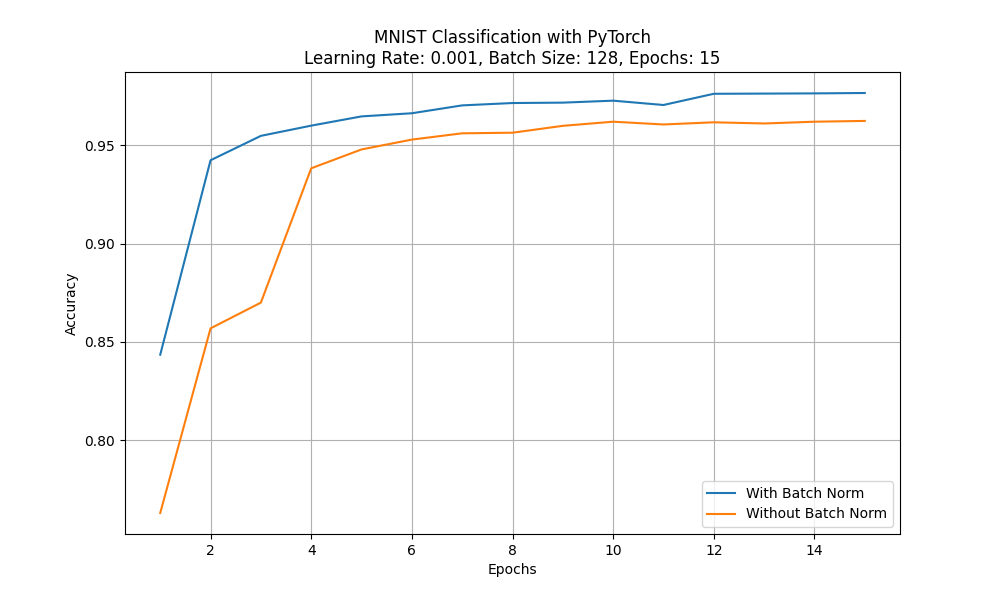
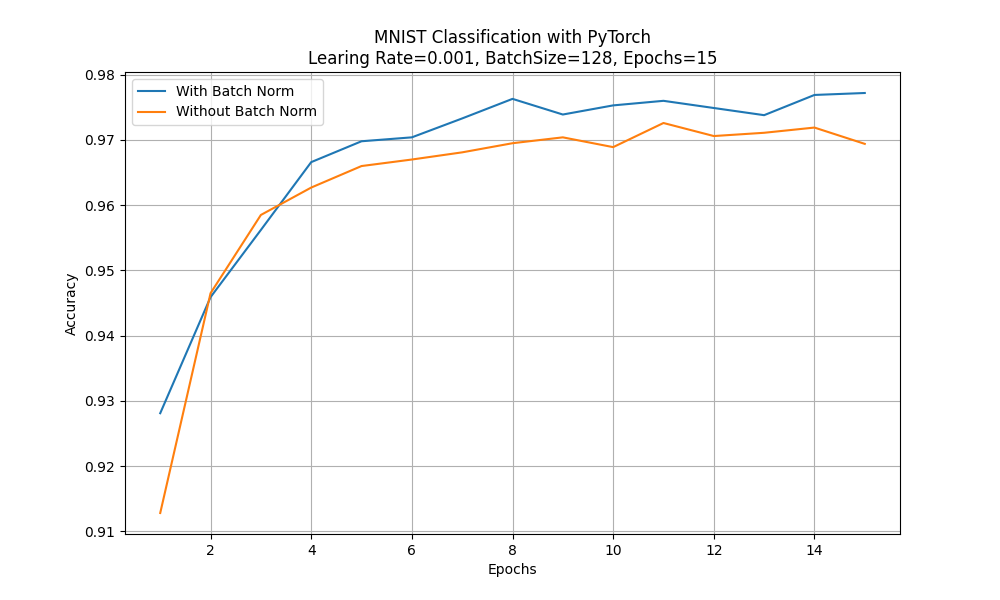
add Batch Normalization code

diff --git a/Fundamentals/BatchNormalization/main.py b/Fundamentals/BatchNormalization/main.py
@@ -1,7 +1,6 @@
 import torch
 import torch.nn as nn
 import torch.optim as optim
-import pandas as pd
 import numpy as np
 import os
 import matplotlib.pyplot as plt
@@ -10,43 +9,38 @@ from torchvision import datasets, transforms
 from NN import NeuralNetwork
 from utils import set_seed, train_model
 
-# 시드 설정
-set_seed(seed=777)
-
-# GPU 설정
-device = torch.device("cuda" if torch.cuda.is_available() else "cpu")
-print(f"Using device: {device}")
-
-# 전체 학습 과정을 함수로 묶기
 def train_and_compare_models(learning_rate=0.001, epochs=10, batch_size=64):
-    # 데이터 로드
-    result_dir = "results/"
-    os.makedirs(result_dir, exist_ok=True)  # 결과 디렉토리 생성
+    # 시드 설정
+    set_seed(777)
 
-    # MNIST 데이터셋 로드
+    # GPU 설정
+    device = torch.device("cuda" if torch.cuda.is_available() else "cpu")
+    print(f"Using device: {device}")
+
+    result_dir = "results"
+    os.makedirs(result_dir, exist_ok=True)
+
+    # MNIST 데이터셋
     transform = transforms.Compose([
         transforms.ToTensor(),
         transforms.Normalize((0.1307,), (0.3081,))
     ])
-    
     train_dataset = datasets.MNIST('data', train=True, download=True, transform=transform)
     test_dataset = datasets.MNIST('data', train=False, download=True, transform=transform)
 
-    # DataLoader 생성
     train_loader = torch.utils.data.DataLoader(train_dataset, batch_size=batch_size, shuffle=True)
     test_loader = torch.utils.data.DataLoader(test_dataset, batch_size=batch_size, shuffle=False)
 
-    # 모델 설정
     input_size = 28 * 28
     hidden_size = 100
     output_size = 10
 
-    # 모델: Batch Normalization 적용
+    # (1) BN 적용 모델
     model_bn = NeuralNetwork(input_size, hidden_size, output_size, use_batch_norm=True)
     criterion_bn = nn.CrossEntropyLoss()
     optimizer_bn = optim.Adam(model_bn.parameters(), lr=learning_rate)
 
-    # 모델: Batch Normalization 미적용
+    # (2) BN 미적용 모델
     model_no_bn = NeuralNetwork(input_size, hidden_size, output_size, use_batch_norm=False)
     criterion_no_bn = nn.CrossEntropyLoss()
     optimizer_no_bn = optim.Adam(model_no_bn.parameters(), lr=learning_rate)
@@ -57,7 +51,7 @@ def train_and_compare_models(learning_rate=0.001, epochs=10, batch_size=64):
     print("\nTraining model WITHOUT Batch Normalization:")
     metrics_no_bn = train_model(model_no_bn, train_loader, test_loader, criterion_no_bn, optimizer_no_bn, epochs, device=device)
 
-    # 결과 시각화
+    # Accuracy 결과 시각화
     metrics_bn = np.array(metrics_bn)
     metrics_no_bn = np.array(metrics_no_bn)
 
@@ -66,7 +60,7 @@ def train_and_compare_models(learning_rate=0.001, epochs=10, batch_size=64):
     plt.plot(range(1, epochs + 1), metrics_no_bn[:, 1], label="Without Batch Norm")
     plt.xlabel("Epochs")
     plt.ylabel("Accuracy")
-    plt.title(f"MNIST Classification with PyTorch\nLearning Rate: {learning_rate}, Batch Size: {batch_size}, Epochs: {epochs}")
+    plt.title(f"MNIST Classification with PyTorch\nLearing Rate={learning_rate}, BatchSize={batch_size}, Epochs={epochs}")
     plt.legend()
     plt.grid()
     plt.savefig(os.path.join(result_dir, f"mnist_accuracy_comparison_lr{learning_rate}_bs{batch_size}.png"))
@@ -74,8 +68,8 @@ def train_and_compare_models(learning_rate=0.001, epochs=10, batch_size=64):
 
 if __name__ == "__main__":
     # 하이퍼파라미터 설정
-    learning_rates = [0.01, 0.001, 0.0001]
-    batch_sizes = [16, 32, 64, 128]
+    learning_rates = [0.001]
+    batch_sizes = [16, 128]
     epochs = 15
 
     # 모든 learning rate와 batch size 조합에 대해 실험

diff --git a/Fundamentals/BatchNormalization/NN.py b/Fundamentals/BatchNormalization/NN.py
@@ -4,32 +4,76 @@ import torch.nn as nn
 class NeuralNetwork(nn.Module):
     def __init__(self, input_size, hidden_size, output_size, use_batch_norm=True):
         super(NeuralNetwork, self).__init__()
-        layers = []
         
-        # First Layer
-        layers.append(nn.Linear(input_size, hidden_size))
+        self.use_batch_norm = use_batch_norm
+        
+        # 첫 번째 레이어
+        self.fc1 = nn.Linear(input_size, hidden_size)
         if use_batch_norm:
-            layers.append(nn.BatchNorm1d(hidden_size))
-        layers.append(nn.Sigmoid())
+            self.bn1 = nn.BatchNorm1d(hidden_size)
         
-        # Second Layer
-        layers.append(nn.Linear(hidden_size, hidden_size))
+        # 두 번째 레이어
+        self.fc2 = nn.Linear(hidden_size, hidden_size)
         if use_batch_norm:
-            layers.append(nn.BatchNorm1d(hidden_size))
-        layers.append(nn.Sigmoid())
+            self.bn2 = nn.BatchNorm1d(hidden_size)
         
-        # Third Layer
-        layers.append(nn.Linear(hidden_size, hidden_size))
+        # 세 번째 레이어
+        self.fc3 = nn.Linear(hidden_size, hidden_size)
         if use_batch_norm:
-            layers.append(nn.BatchNorm1d(hidden_size))
-        layers.append(nn.Sigmoid())
+            self.bn3 = nn.BatchNorm1d(hidden_size)
         
-        # Output Layer (Softmax 제거)
-        layers.append(nn.Linear(hidden_size, output_size))
-        
-        self.model = nn.Sequential(*layers)
+        # 출력 레이어
+        self.fc_out = nn.Linear(hidden_size, output_size)
 
-    def forward(self, x):
-        # Flatten the input tensor
+    def forward(self, x, return_activations=False):
         x = x.view(x.size(0), -1)
-        return self.model(x)
+        activations = {}
+        
+        # FC1
+        fc1_out = self.fc1(x)
+        if return_activations:
+            activations['fc1_out'] = fc1_out.detach().cpu()
+
+        if self.use_batch_norm:
+            bn1_out = self.bn1(fc1_out)
+            if return_activations:
+                activations['bn1_out'] = bn1_out.detach().cpu()
+            x1_act = torch.sigmoid(bn1_out)
+        else:
+            x1_act = torch.sigmoid(fc1_out)
+        
+        # FC2
+        fc2_out = self.fc2(x1_act)
+        if return_activations:
+            activations['fc2_out'] = fc2_out.detach().cpu()
+
+        if self.use_batch_norm:
+            bn2_out = self.bn2(fc2_out)
+            if return_activations:
+                activations['bn2_out'] = bn2_out.detach().cpu()
+            x2_act = torch.sigmoid(bn2_out)
+        else:
+            x2_act = torch.sigmoid(fc2_out)
+        
+        # FC3
+        fc3_out = self.fc3(x2_act)
+        if return_activations:
+            activations['fc3_out'] = fc3_out.detach().cpu()
+
+        if self.use_batch_norm:
+            bn3_out = self.bn3(fc3_out)
+            if return_activations:
+                activations['bn3_out'] = bn3_out.detach().cpu()
+            x3_act = torch.sigmoid(bn3_out)
+        else:
+            x3_act = torch.sigmoid(fc3_out)
+        
+        # Output
+        out = self.fc_out(x3_act)
+        if return_activations:
+            activations['out'] = out.detach().cpu()
+        
+        if return_activations:
+            return out, activations
+        else:
+            return out

diff --git a/Fundamentals/BatchNormalization/utils.py b/Fundamentals/BatchNormalization/utils.py
@@ -1,16 +1,10 @@
-import random
-import numpy as np
 import torch
+import numpy as np
+import os
+import matplotlib.pyplot as plt
+import random
 
-def set_seed(seed=42):
-    torch.manual_seed(seed)
-    np.random.seed(seed)
-    random.seed(seed)
-    if torch.cuda.is_available():
-        torch.cuda.manual_seed_all(seed)
-
-# 학습 및 평가 함수
-def train_model(model, train_loader, test_loader, criterion, optimizer, epochs, device="cpu"):
+def train_model(model, train_loader, test_loader, criterion, optimizer, epochs, device='cpu'):
     model.to(device)
     metrics = []
 
@@ -32,7 +26,7 @@ def train_model(model, train_loader, test_loader, criterion, optimizer, epochs, 
 
         avg_train_loss = running_loss / len(train_loader.dataset)
 
-        # 테스트 정확도 측정
+        # 테스트 정확도
         model.eval()
         correct = 0
         total = 0
@@ -41,16 +35,54 @@ def train_model(model, train_loader, test_loader, criterion, optimizer, epochs, 
                 x_batch = x_batch.to(device)
                 y_batch = y_batch.to(device)
                 outputs = model(x_batch)
-                
-                # 예측 확률 계산 시 Softmax 적용
-                probabilities = torch.softmax(outputs, dim=1)
-                _, predicted = torch.max(probabilities, 1)
+                _, predicted = torch.max(outputs, 1)
                 total += y_batch.size(0)
                 correct += (predicted == y_batch).sum().item()
 
         accuracy = correct / total
         metrics.append([avg_train_loss, accuracy])
-
         print(f"Epoch [{epoch+1}/{epochs}], Loss: {avg_train_loss:.4f}, Accuracy: {accuracy:.4f}")
 
+    # --- 활성값(activation) 수집 + 시각화 ---
+    model.eval()
+    with torch.no_grad():
+        x_test_batch, y_test_batch = next(iter(test_loader))
+        x_test_batch = x_test_batch.to(device)
+        _, activations = model(x_test_batch, return_activations=True)
+    
+    # (1) 모델별 하위 디렉토리 결정
+    model_type = "with_bn" if model.use_batch_norm else "no_bn"
+    batch_size = x_test_batch.size(0)
+    model_result_dir = os.path.join("results", f"bs{batch_size}", model_type)
+    os.makedirs(model_result_dir, exist_ok=True)
+
+    print(f"\n===== Activation Distribution Analysis ({model_type}) =====")
+    for key in activations:
+        plt.figure(figsize=(5, 3))
+        data = activations[key].flatten().cpu().numpy()
+        
+        # 평균, 표준편차
+        mean_val = np.mean(data)
+        std_val = np.std(data)
+        
+        # 콘솔 출력
+        print(f"[{model_type}] {key} - Mean: {mean_val:.4f}, Std: {std_val:.4f}")
+        
+        # 히스토그램 저장 (model_result_dir 아래)
+        plt.hist(data, bins=50, alpha=0.7, color='blue')
+        plt.title(f"{model_type} - {key}\nMean={mean_val:.4f}, Std={std_val:.4f}")
+        plt.xlabel("Activation value")
+        plt.ylabel("Frequency")
+        plt.grid(True)
+        plt.tight_layout()
+        plt.savefig(os.path.join(model_result_dir, f"activation_hist_{key}.png"))
+        plt.close()
+
     return metrics
+
+def set_seed(seed=42):
+    torch.manual_seed(seed)
+    np.random.seed(seed)
+    random.seed(seed)
+    if torch.cuda.is_available():
+        torch.cuda.manual_seed_all(seed)
